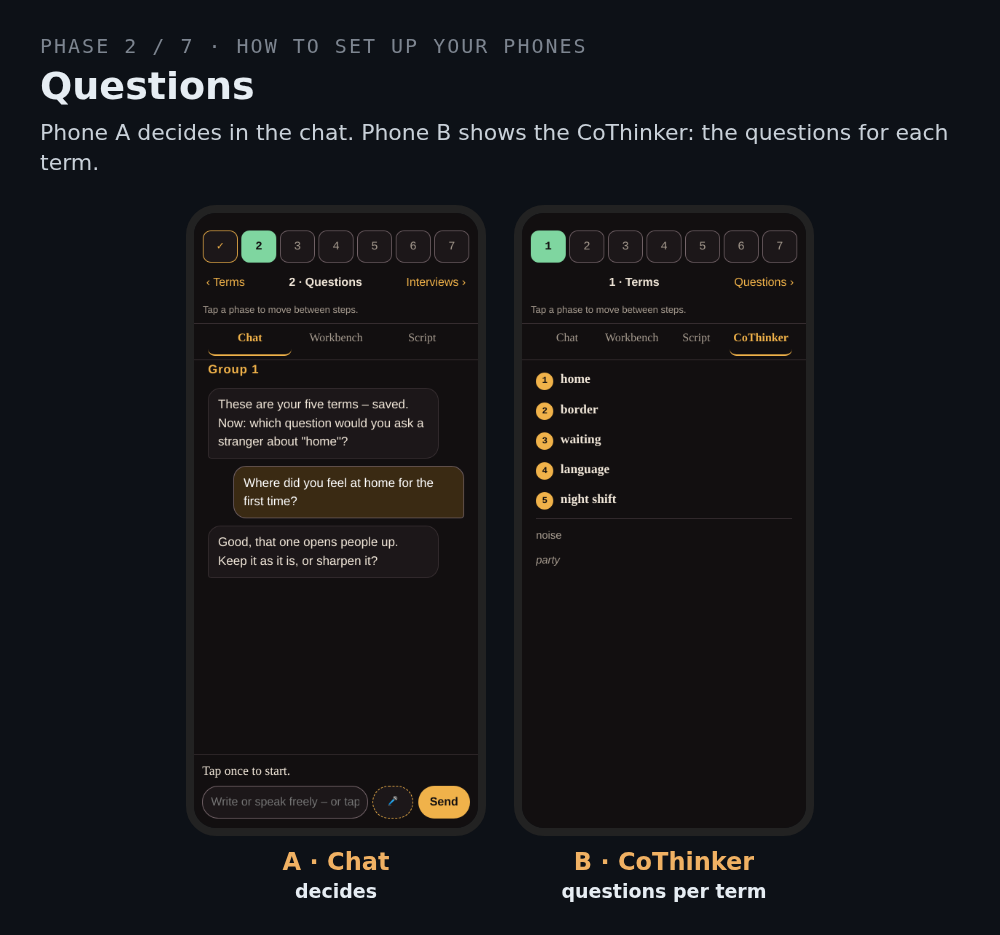
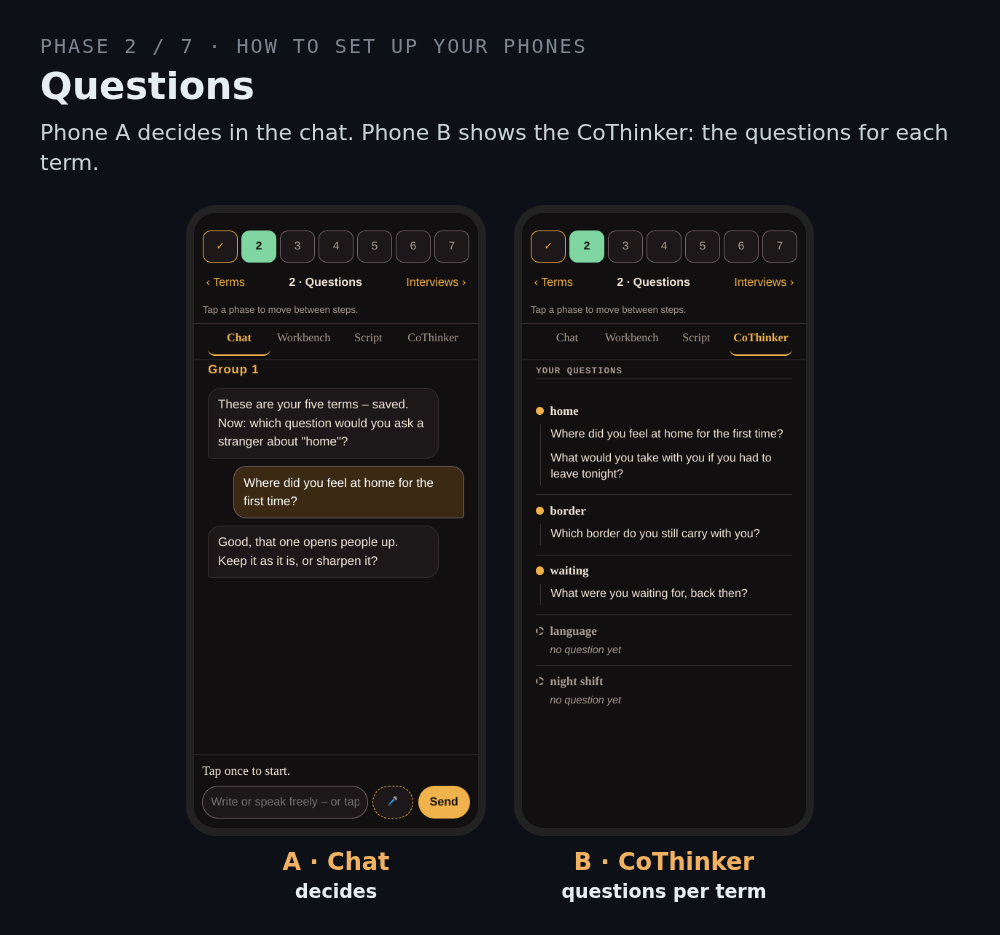
Handy-Karte Phase 2: echter CoThinker mit Fragen je Begriff (AUS_PHASE leer, Material mit Begriff:Frage)

diff --git a/scripts/handy_karten_bilder.py b/scripts/handy_karten_bilder.py
@@ -15,7 +15,7 @@ selbst ist reines HTML aus der Tabelle.
 Vorbild: der Phase-1-Versuch ``zwei_handys.py``/``dom_map_server.py``
 (Birks Scratch, 05.10.2026).
 
-**Phase 2, Handy B:** der CoThinker zeigt in Phase 2 die Fragen je Begriff
+**Phase 2, Handy B:** der CoThinker zeigt in Phase 2 die Fragen je Begriff (seit Merge robo/p2-livefix echt, AUS_PHASE leer).
 erst nach dem Merge von ``robo/p2-livefix`` (Punkt M). Bis dahin ist
 ``AUS_PHASE`` gesetzt: der Screenshot von B entsteht als CoThinker der
 Phase 1 (das Begriffsboard) -- ein Platzhalter. Nach dem Merge den Eintrag
@@ -46,7 +46,7 @@ HASH = {"Chat": "chat", "Workbench": "stand", "CoThinker": "buehne", "Script": "
 
 #: (Phase, Handy-Index) -> Phase, deren Daten fuer diesen Screenshot gelten.
 #: Nur fuer den Platzhalter Phase 2 / Handy B (siehe Modulkopf).
-AUS_PHASE = {(2, 1): 1}
+AUS_PHASE: dict = {}
 
 #: Phase 7: die Rollen der drei Script-Handys (Rollenlink ``#textbuch&figur=``).
 ROLLEN_7 = ("LENA", "MALIK", "SOFIA")
@@ -131,6 +131,14 @@ def _saeen(conn, phase: int) -> None:
     _board(conn)
     repo.setze_arbeitsstand(conn, CHAT, "begriffe", BEGRIFFE)
     if phase == 2:
+        # CoThinker Phase 2 zeigt Fragen je Begriff ("Begriff: Frage");
+        # zwei Begriffe bewusst noch ohne Frage (leise markiert).
+        repo.setze_arbeitsstand(conn, CHAT, "fragen", (
+            "home: Where did you feel at home for the first time?\n"
+            "home: What would you take with you if you had to leave tonight?\n"
+            "border: Which border do you still carry with you?\n"
+            "waiting: What were you waiting for, back then?"
+        ))
         _bot(conn, "These are your five terms – saved. Now: which question would you "
                    "ask a stranger about \"home\"?")
         _gruppe(conn, "Where did you feel at home for the first time?")
